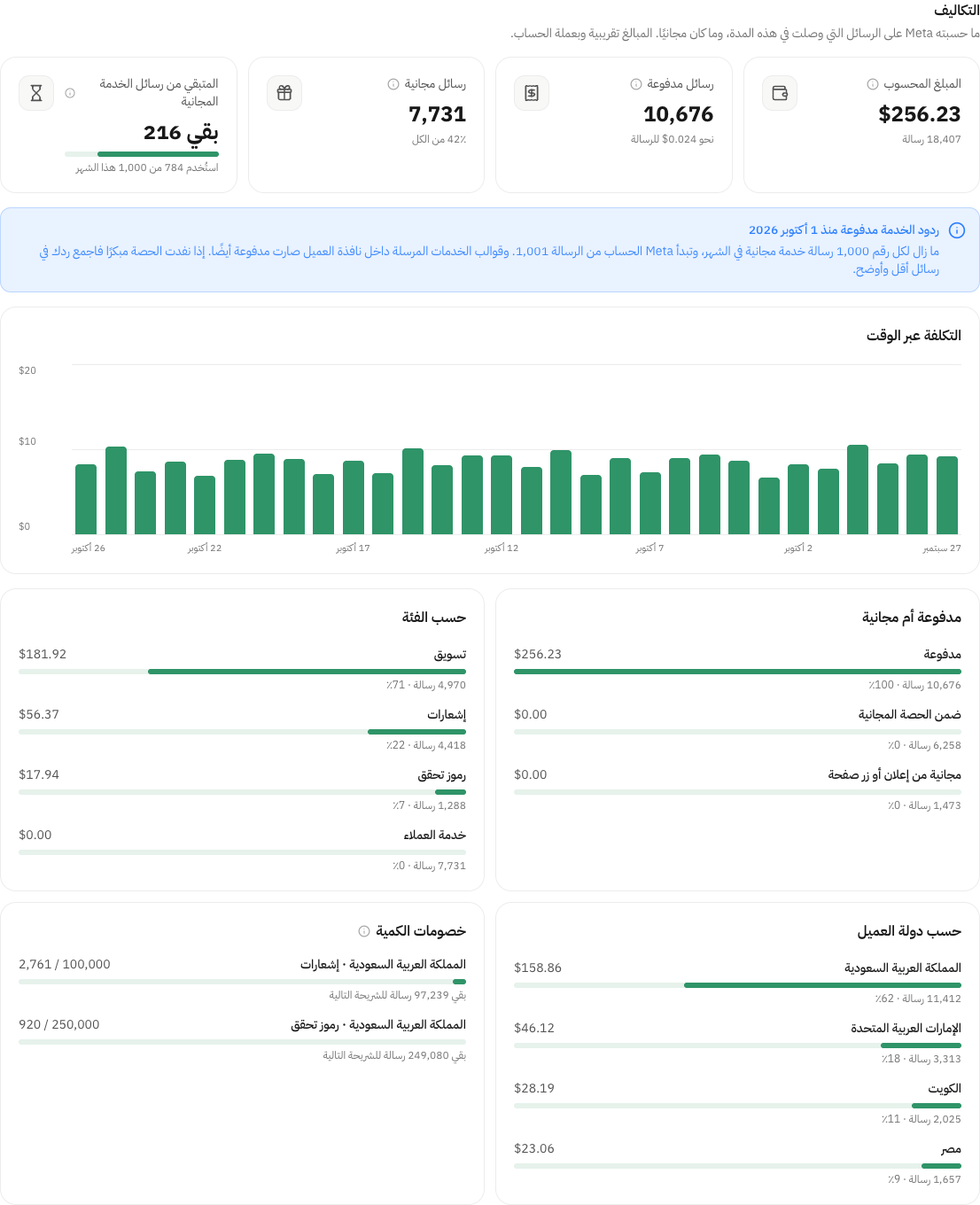
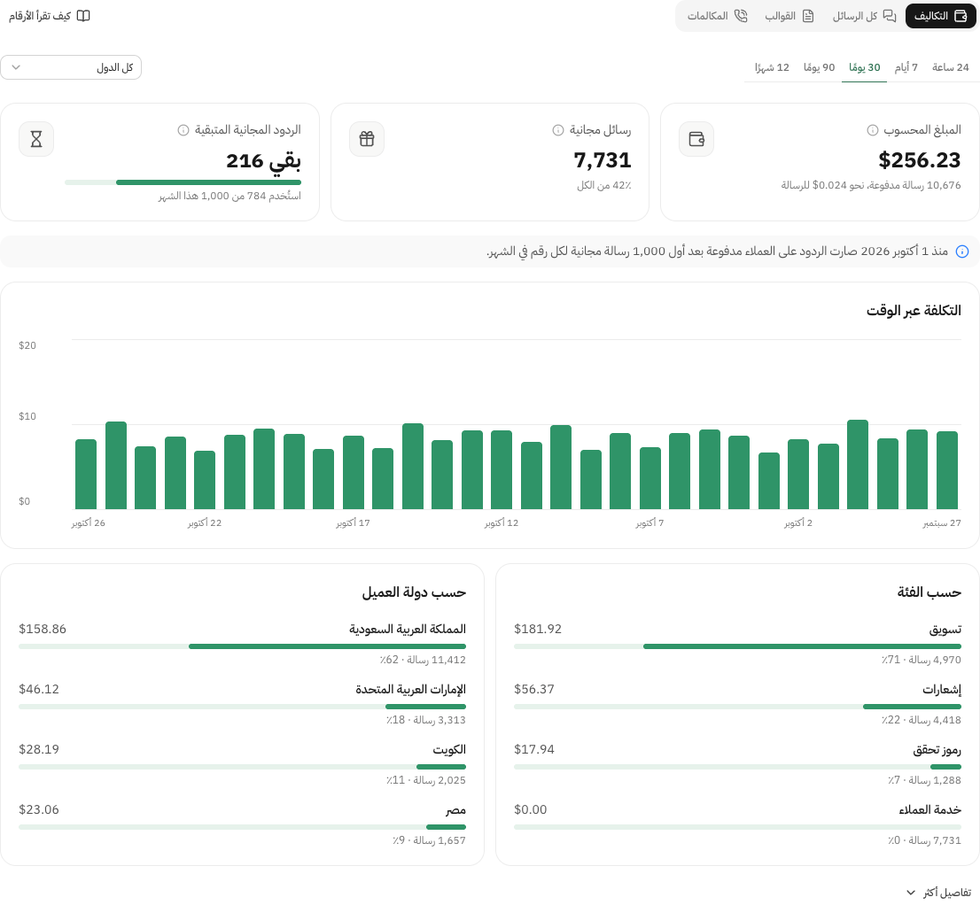
feat(analytics): simplify the reports page into short tabs
Splits Reports into Costs, All messages, Templates and Calls tabs, picks
the time bucket from the range instead of asking, keeps three cost tiles,
category and country up front, and moves paid-or-free, per-number and
volume discounts behind "More details". Shortens the copy in both
languages.

diff --git a/app/components/ReportsPanel.vue b/app/components/ReportsPanel.vue
@@ -2,28 +2,16 @@
 const { api, accountId, current } = useManager()
 
 const days = ref<number>(30)
-const granularity = ref<ReportGranularity>('DAILY')
 const phone = ref<string>('')
 const country = ref<string>('')
 
 const periods = computed(() => REPORT_PERIODS.map(value => ({ label: tOr(`reports.period.${value}`, String(value)), value })))
-const granularities = computed(() => REPORT_GRANULARITIES
-  .filter(value => value !== 'HALF_HOUR' || days.value <= HALF_HOUR_MAX_DAYS)
-  .map(value => ({ label: tOr(`reports.granularity.${value}`, value), value })))
+// The bucket follows the range, so there is one choice less to make: half hours for a day, months for a year.
+const granularity = computed<ReportGranularity>(() => (days.value === 1 ? 'HALF_HOUR' : days.value === 365 ? 'MONTHLY' : 'DAILY'))
 
-// A year by day is 365 thin bars; by month it reads at a glance. Half hours only make sense for a short range.
-watch(days, (value) => {
-  if (value > HALF_HOUR_MAX_DAYS && granularity.value === 'HALF_HOUR') {
-    granularity.value = 'DAILY'
-  }
-
-  if (value === 365) {
-    granularity.value = 'MONTHLY'
-  }
-  else if (value <= 30 && granularity.value === 'MONTHLY') {
-    granularity.value = value === 1 ? 'HALF_HOUR' : 'DAILY'
-  }
-})
+// One part at a time keeps the page short; extra cost breakdowns wait behind "More details".
+const section = ref<'costs' | 'messages' | 'templates' | 'calls'>('costs')
+const more = ref(false)
 
 const ALL = '*'
 const phoneItems = computed(() => [
@@ -105,15 +93,32 @@ const trafficPoints = computed(() => (traffic.value?.series ?? []).map(point => 
 const callPoints = computed(() => (calls.value?.series ?? []).map(point => ({ key: point.key, values: [point.count] })))
 const hasCalls = computed(() => Boolean(calls.value?.count))
 
+const sections = computed(() => [
+  { label: t('reports.costs.title'), value: 'costs', icon: 'i-lucide-wallet' },
+  { label: t('reports.traffic.title'), value: 'messages', icon: 'i-lucide-messages-square' },
+  { label: t('reports.templatesTab'), value: 'templates', icon: 'i-lucide-file-text' },
+  ...(hasCalls.value ? [{ label: t('reports.calls.title'), value: 'calls', icon: 'i-lucide-phone-call' }] : []),
+])
+
+watch(hasCalls, (value) => {
+  if (!value && section.value === 'calls') {
+    section.value = 'costs'
+  }
+})
+
 const tierProgress = (tier: CostReport['tiers'][number]) => (tier.upper ? Math.min(100, Math.round((tier.volume / tier.upper) * 100)) : 0)
 </script>
 
 <template>
   <div class="space-y-6">
     <div class="flex flex-wrap items-center justify-between gap-3">
-      <UTabs v-model="days" :items="periods" :content="false" size="sm" />
-      <div class="flex flex-wrap items-center gap-2">
-        <USelect v-model="granularity" :items="granularities" size="sm" class="w-32" :aria-label="t('reports.granularityLabel')" />
+      <UTabs v-model="section" :items="sections" :content="false" color="neutral" size="sm" />
+      <UButton :to="docsUrl('reports-and-costs')" target="_blank" icon="i-lucide-book-open" color="neutral" variant="ghost" size="sm" :label="t('reports.guide')" />
+    </div>
+
+    <div v-if="section !== 'templates'" class="flex flex-wrap items-center gap-2">
+      <UTabs v-model="days" :items="periods" :content="false" size="xs" variant="link" />
+      <div class="flex flex-wrap items-center gap-2 sm:ms-auto">
         <USelect
           v-if="phoneItems.length > 2"
           :model-value="phone || ALL"
@@ -132,39 +137,21 @@ const tierProgress = (tier: CostReport['tiers'][number]) => (tier.upper ? Math.m
           :aria-label="t('reports.country')"
           @update:model-value="(value) => (country = value === ALL ? '' : String(value))"
         />
-        <UButton :to="docsUrl('reports-and-costs')" target="_blank" icon="i-lucide-book-open" color="neutral" variant="ghost" size="sm" :label="t('reports.guide')" />
       </div>
     </div>
 
-    <!-- Costs -->
-    <section class="space-y-4">
-      <div>
-        <h2 class="font-semibold text-highlighted">
-          {{ t('reports.costs.title') }}
-        </h2>
-        <p class="mt-1 text-sm text-muted">
-          {{ t('reports.costs.intro') }}
-        </p>
-      </div>
+    <section v-if="section === 'costs'" class="space-y-4">
 
       <UAlert v-if="errors.costs" color="error" variant="subtle" icon="i-lucide-circle-alert" :title="t('reports.costs.failed')" :description="errors.costs" />
 
       <template v-else>
-        <div class="grid gap-3 sm:grid-cols-2 xl:grid-cols-4">
+        <div class="grid gap-3 md:grid-cols-3">
           <StatTile :title="t('reports.costs.total')" icon="i-lucide-wallet" :hint="t('reports.costs.totalHint')" :loading="loading && !costs">
             <p class="text-2xl font-bold text-highlighted tabular-nums">
               <bdi dir="ltr">{{ money(costs?.total, currency) }}</bdi>
             </p>
             <p class="mt-1 text-xs text-muted">
-              {{ t('chart.messageCount', { n: count(costs?.messages) }) }}
-            </p>
-          </StatTile>
-          <StatTile :title="t('reports.costs.paid')" icon="i-lucide-receipt" :hint="t('reports.costs.paidHint')" :loading="loading && !costs">
-            <p class="text-2xl font-bold text-highlighted tabular-nums">
-              <bdi dir="ltr">{{ count(paidMessages) }}</bdi>
-            </p>
-            <p class="mt-1 text-xs text-muted">
-              {{ t('reports.costs.perMessage', { amount: ltr(money(paidMessages ? (costs?.total ?? 0) / paidMessages : 0, currency, 4)) }) }}
+              {{ t('reports.costs.paidCount', { n: count(paidMessages), amount: ltr(money(paidMessages ? (costs?.total ?? 0) / paidMessages : 0, currency, 3)) }) }}
             </p>
           </StatTile>
           <StatTile :title="t('reports.costs.free')" icon="i-lucide-gift" :hint="t('reports.costs.freeHint')" :loading="loading && !costs">
@@ -192,15 +179,30 @@ const tierProgress = (tier: CostReport['tiers'][number]) => (tier.upper ? Math.m
           </StatTile>
         </div>
 
-        <UAlert color="info" variant="subtle" icon="i-lucide-info" :title="t('reports.costs.octoberTitle')" :description="t('reports.costs.october')" />
+        <p class="flex items-start gap-2 rounded-lg bg-elevated/60 px-3 py-2 text-sm text-toned">
+          <UIcon name="i-lucide-info" class="mt-0.5 size-4 shrink-0 text-info" />
+          {{ t('reports.costs.october') }}
+        </p>
 
         <ReportBars :title="t('reports.costs.overTime')" :points="costPoints" :series="[{ name: t('chart.cost'), color: 'var(--chart-bar)' }]" :format="(value) => compactMoney(value, currency)" />
 
-        <!-- A lone last card takes the full row, so the grid never leaves a hole. -->
-        <div class="grid gap-3 lg:grid-cols-2 lg:[&>*:last-child:nth-child(odd)]:col-span-2">
-          <CostShares :title="t('reports.costs.byType')" :rows="shares(costs?.by_pricing_type, key => tOr(`reports.pricingType.${key}`, humanize(key)))" :total="costs?.total ?? 0" :currency="currency" />
+        <div class="grid gap-3 lg:grid-cols-2">
           <CostShares :title="t('reports.costs.byCategory')" :rows="shares(costs?.by_category, pricingLabel)" :total="costs?.total ?? 0" :currency="currency" />
           <CostShares :title="t('reports.costs.byCountry')" :rows="shares(costs?.by_country, countryName)" :total="costs?.total ?? 0" :currency="currency" />
+        </div>
+
+        <UButton
+          :label="more ? t('reports.lessDetails') : t('reports.moreDetails')"
+          :trailing-icon="more ? 'i-lucide-chevron-up' : 'i-lucide-chevron-down'"
+          color="neutral"
+          variant="ghost"
+          size="sm"
+          @click="more = !more"
+        />
+
+        <!-- A lone last card takes the full row, so the grid never leaves a hole. -->
+        <div v-if="more" class="grid gap-3 lg:grid-cols-2 lg:[&>*:last-child:nth-child(odd)]:col-span-2">
+          <CostShares :title="t('reports.costs.byType')" :rows="shares(costs?.by_pricing_type, key => tOr(`reports.pricingType.${key}`, humanize(key)))" :total="costs?.total ?? 0" :currency="currency" />
           <CostShares v-if="(costs?.by_phone.length ?? 0) > 1" :title="t('reports.costs.byPhone')" :rows="shares(costs?.by_phone, phoneLabel)" :total="costs?.total ?? 0" :currency="currency" />
           <div v-if="costs?.tiers.length" class="rounded-xl border border-default bg-default p-5">
             <h3 class="flex items-center gap-1.5 font-semibold text-highlighted">
@@ -228,16 +230,7 @@ const tierProgress = (tier: CostReport['tiers'][number]) => (tier.upper ? Math.m
       </template>
     </section>
 
-    <!-- All messages -->
-    <section class="space-y-4">
-      <div>
-        <h2 class="font-semibold text-highlighted">
-          {{ t('reports.traffic.title') }}
-        </h2>
-        <p class="mt-1 text-sm text-muted">
-          {{ t('reports.traffic.intro') }}
-        </p>
-      </div>
+    <section v-if="section === 'messages'" class="space-y-4">
 
       <UAlert v-if="errors.traffic" color="error" variant="subtle" icon="i-lucide-circle-alert" :title="t('reports.traffic.failed')" :description="errors.traffic" />
 
@@ -264,10 +257,10 @@ const tierProgress = (tier: CostReport['tiers'][number]) => (tier.upper ? Math.m
       </template>
     </section>
 
-    <ReportCompare />
+    <ReportCompare v-if="section === 'templates'" />
 
     <!-- Template groups: only when the account has some. -->
-    <section v-if="groups?.groups.length" class="space-y-4 rounded-xl border border-default bg-default p-5">
+    <section v-if="section === 'templates' && groups?.groups.length" class="space-y-4 rounded-xl border border-default bg-default p-5">
       <div>
         <h2 class="font-semibold text-highlighted">
           {{ t('reports.groups.title') }}
@@ -329,15 +322,7 @@ const tierProgress = (tier: CostReport['tiers'][number]) => (tier.upper ? Math.m
     </section>
 
     <!-- Calls: only when the account had any in the range. -->
-    <section v-if="hasCalls" class="space-y-4">
-      <div>
-        <h2 class="font-semibold text-highlighted">
-          {{ t('reports.calls.title') }}
-        </h2>
-        <p class="mt-1 text-sm text-muted">
-          {{ t('reports.calls.intro') }}
-        </p>
-      </div>
+    <section v-if="section === 'calls' && hasCalls" class="space-y-4">
       <div class="grid gap-3 sm:grid-cols-3">
         <StatTile :title="t('reports.calls.count')" icon="i-lucide-phone-call">
           <p class="text-2xl font-bold text-highlighted tabular-nums">

diff --git a/site/app/utils/docs.ts b/site/app/utils/docs.ts
@@ -346,7 +346,7 @@ const reportsEn: typeof en = {
   description: 'See what WhatsApp messages cost by country, number and paid or free, all messages sent and received, the 1,000 free service messages per number, volume tiers, template block rates, template groups and calls.',
   keywords: 'WhatsApp pricing analytics, WhatsApp cost by country, WhatsApp free service messages 1000, WhatsApp service message charge October 2026, WhatsApp volume tier, WhatsApp template block rate, template comparison, WhatsApp call analytics, template group analytics',
   heading: 'Reports and costs',
-  intro: 'Open an account and choose "Reports". The page reads Meta\'s analytics for the last 24 hours, 7, 30 or 90 days, or 12 months, and says in plain words what each number means. It only reads; nothing is sent or changed.',
+  intro: 'Open an account and choose "Reports". The page reads Meta\'s analytics for the last 24 hours, 7, 30 or 90 days, or 12 months, and says in plain words what each number means. It has four short tabs: costs, all messages, templates and calls (only when the account has calls). It only reads; nothing is sent or changed.',
   onThisPage: 'On this page',
   back: 'Back to the home page',
   limitsTitle: 'Meta\'s limits at a glance',
@@ -361,7 +361,7 @@ const reportsEn: typeof en = {
     {
       id: 'costs',
       title: 'Costs',
-      text: 'The amount Meta charged for messages delivered in the range, how many were paid and how many free, and the cost over time by half hour, day or month. Below it, the same money by paid or free, by category, by the customer\'s country and, with several numbers, by number.',
+      text: 'The amount Meta charged for messages delivered in the range, how many were paid and how many free, and the cost over time (by half hour for 24 hours, by month for 12 months, by day otherwise). Below it, the cost by category and by customer country; "More details" adds paid or free, each number and volume discounts.',
       points: [
         '"Paid" covers marketing and authentication templates, utility templates, and service replies after the free tier.',
         '"Free from an ad or page button" is a 72-hour window that starts when a customer messages you from an ad or a page button.',
@@ -415,7 +415,7 @@ const reportsAr: typeof ar = {
   description: 'اعرف تكلفة رسائل واتساب حسب الدولة والرقم والمدفوع والمجاني، وكل الرسائل المرسلة والواردة، والـ 1,000 رسالة خدمة المجانية لكل رقم، وشرائح الكمية، ونسبة حظر القوالب، ومجموعات القوالب والمكالمات.',
   keywords: 'تكلفة رسائل واتساب, تحليلات أسعار واتساب, رسائل الخدمة المجانية 1000, احتساب رسائل الخدمة أكتوبر 2026, شرائح الكمية واتساب, نسبة حظر القالب, مقارنة القوالب, تحليلات مكالمات واتساب',
   heading: 'التقارير والتكاليف',
-  intro: 'افتح حسابًا واختر «التقارير». تقرأ الصفحة تحليلات Meta لآخر 24 ساعة أو 7 أو 30 أو 90 يومًا أو 12 شهرًا، وتشرح بكلمات بسيطة ماذا يعني كل رقم. الصفحة تقرأ فقط؛ لا ترسل شيئًا ولا تغيّر شيئًا.',
+  intro: 'افتح حسابًا واختر «التقارير». تقرأ الصفحة تحليلات Meta لآخر 24 ساعة أو 7 أو 30 أو 90 يومًا أو 12 شهرًا، وتشرح بكلمات بسيطة ماذا يعني كل رقم. فيها أربعة تبويبات قصيرة: التكاليف، وكل الرسائل، والقوالب، والمكالمات (إن وُجدت). الصفحة تقرأ فقط؛ لا ترسل شيئًا ولا تغيّر شيئًا.',
   onThisPage: 'في هذه الصفحة',
   back: 'العودة إلى الصفحة الرئيسية',
   limitsTitle: 'حدود Meta باختصار',
@@ -430,7 +430,7 @@ const reportsAr: typeof ar = {
     {
       id: 'costs',
       title: 'التكاليف',
-      text: 'المبلغ الذي حسبته Meta على الرسائل التي وصلت في المدة، وكم منها مدفوع وكم مجاني، والتكلفة عبر الوقت بنصف الساعة أو اليوم أو الشهر. وتحتها المبلغ نفسه مقسّمًا: مدفوع أم مجاني، والفئة، ودولة العميل، والرقم إذا كان للحساب أكثر من رقم.',
+      text: 'المبلغ الذي حسبته Meta على الرسائل التي وصلت في المدة، وكم منها مدفوع وكم مجاني، والتكلفة عبر الوقت (بنصف الساعة لمدة 24 ساعة، وبالشهر لمدة 12 شهرًا، وباليوم فيما عدا ذلك). وتحتها التكلفة حسب الفئة ودولة العميل، وزر «تفاصيل أكثر» يضيف المدفوع والمجاني وكل رقم وخصومات الكمية.',
       points: [
         '«مدفوعة» تشمل قوالب التسويق والتحقق، وقوالب الخدمات، وردود الخدمة بعد انتهاء الحصة المجانية.',
         '«مجانية من إعلان أو زر صفحة» نافذة مدتها 72 ساعة تبدأ عندما يراسلك العميل من إعلان أو زر صفحة.',

diff --git a/shared/locales/ar.ts b/shared/locales/ar.ts
@@ -824,14 +824,15 @@ export default {
   },
   reports: {
     tab: 'التقارير',
+    templatesTab: 'القوالب',
+    moreDetails: 'تفاصيل أكثر',
+    lessDetails: 'تفاصيل أقل',
     guide: 'كيف تقرأ الأرقام',
     allNumbers: 'كل الأرقام',
     allCountries: 'كل الدول',
     number: 'رقم الهاتف',
     country: 'الدولة',
-    granularityLabel: 'العرض حسب',
     period: { 1: '24 ساعة', 7: '7 أيام', 30: '30 يومًا', 90: '90 يومًا', 365: '12 شهرًا' },
-    granularity: { HALF_HOUR: 'نصف ساعة', DAILY: 'اليوم', MONTHLY: 'الشهر' },
     pricingType: {
       REGULAR: 'مدفوعة',
       FREE_CUSTOMER_SERVICE: 'ضمن الحصة المجانية',
@@ -845,22 +846,18 @@ export default {
     },
     costs: {
       title: 'التكاليف',
-      intro: 'ما حسبته Meta على الرسائل التي وصلت في هذه المدة، وما كان مجانيًا. المبالغ تقريبية وبعملة الحساب.',
       failed: 'تعذّر تحميل التكاليف',
       total: 'المبلغ المحسوب',
+      paidCount: '{n} رسالة مدفوعة، نحو {amount} للرسالة',
       totalHint: 'تقدير Meta للرسائل التي وصلت. الفاتورة هي المرجع النهائي.',
-      paid: 'رسائل مدفوعة',
-      paidHint: 'رسائل حسبتها Meta: قوالب التسويق والتحقق، وقوالب الخدمات، وردود الخدمة بعد انتهاء الحصة المجانية.',
-      perMessage: 'نحو {amount} للرسالة',
       free: 'رسائل مجانية',
       freeHint: 'رسائل داخل نافذة مجانية مدتها 72 ساعة بدأت من إعلان أو زر صفحة، وردود الخدمة ضمن الحصة الشهرية المجانية.',
       ofAll: 'من الكل',
-      freeTier: 'المتبقي من رسائل الخدمة المجانية',
+      freeTier: 'الردود المجانية المتبقية',
       freeTierHint: 'لكل رقم 1,000 رسالة خدمة مجانية في الشهر. تتجدد أول كل شهر ولا يُرحَّل الباقي.',
       freeLeft: 'بقي {n}',
       freeUsed: 'استُخدم {n} من 1,000 هذا الشهر',
-      octoberTitle: 'ردود الخدمة مدفوعة منذ 1 أكتوبر 2026',
-      october: 'ما زال لكل رقم 1,000 رسالة خدمة مجانية في الشهر، وتبدأ Meta الحساب من الرسالة 1,001. وقوالب الخدمات المرسلة داخل نافذة العميل صارت مدفوعة أيضًا. إذا نفدت الحصة مبكرًا فاجمع ردك في رسائل أقل وأوضح.',
+      october: 'منذ 1 أكتوبر 2026 صارت الردود على العملاء مدفوعة بعد أول 1,000 رسالة مجانية لكل رقم في الشهر.',
       overTime: 'التكلفة عبر الوقت',
       byType: 'مدفوعة أم مجانية',
       byCategory: 'حسب الفئة',
@@ -874,7 +871,6 @@ export default {
     },
     traffic: {
       title: 'كل الرسائل',
-      intro: 'كل الرسائل وليس القوالب فقط: ما أرسلته وما أرسله إليك العملاء.',
       failed: 'تعذّر تحميل الرسائل',
       delivered: 'وصل {rate}',
       received: 'من العملاء',
@@ -882,7 +878,7 @@ export default {
     },
     compare: {
       title: 'قارن بين قالبين',
-      intro: 'تخبرك Meta أي القالبين يحظره العملاء أقل، وكم مرة أُرسل كل منهما، وأكثر سبب للحظر.',
+      intro: 'أي القالبين يحظره العملاء أقل، ولماذا يحظرونه.',
       window: '{n} يومًا',
       first: 'القالب الأول',
       second: 'القالب الثاني',
@@ -894,7 +890,7 @@ export default {
       higher: 'حظر أكثر',
       sends: 'أُرسل',
       reason: 'أكثر سبب للحظر',
-      advice: 'الحظر يخفض تقييم الجودة. تعلّم من القالب الأقل حظرًا: أرسله لمن طلبه، واجعل فائدته واضحة من السطر الأول.',
+      advice: 'الحظر يخفض تقييم الجودة. استفد مما نجح في القالب الأقل حظرًا.',
     },
     blockReason: {
       NO_LONGER_NEEDED: 'لم يعد يحتاجها',
@@ -920,7 +916,6 @@ export default {
     },
     calls: {
       title: 'المكالمات',
-      intro: 'مكالمات واتساب على أرقامك.',
       count: 'المكالمات',
       cost: 'التكلفة',
       costHint: 'المكالمات التي يبدؤها العميل مجانية؛ تحسب Meta المكالمات التي يبدؤها نشاطك.',

diff --git a/shared/locales/en.ts b/shared/locales/en.ts
@@ -824,14 +824,15 @@ const en: Dictionary = {
   },
   reports: {
     tab: 'Reports',
+    templatesTab: 'Templates',
+    moreDetails: 'More details',
+    lessDetails: 'Fewer details',
     guide: 'How to read this',
     allNumbers: 'All numbers',
     allCountries: 'All countries',
     number: 'Phone number',
     country: 'Country',
-    granularityLabel: 'Show by',
     period: { 1: '24 hours', 7: '7 days', 30: '30 days', 90: '90 days', 365: '12 months' },
-    granularity: { HALF_HOUR: 'Half hour', DAILY: 'Day', MONTHLY: 'Month' },
     pricingType: {
       REGULAR: 'Paid',
       FREE_CUSTOMER_SERVICE: 'Free service tier',
@@ -845,22 +846,18 @@ const en: Dictionary = {
     },
     costs: {
       title: 'Costs',
-      intro: 'What Meta charged for messages delivered in this range, and what was free. Amounts are approximate and in the account\'s currency.',
       failed: 'Couldn\'t load the costs',
       total: 'Charged',
+      paidCount: '{n} paid messages, about {amount} each',
       totalHint: 'Meta\'s estimate for delivered messages. Your invoice is the final word.',
-      paid: 'Paid messages',
-      paidHint: 'Messages Meta charged for: marketing and authentication templates, utility templates, and service replies after the free tier.',
-      perMessage: 'About {amount} each',
       free: 'Free messages',
       freeHint: 'Messages in a free 72-hour window that started from an ad or page button, and service replies within the monthly free tier.',
       ofAll: 'of all',
-      freeTier: 'Free service messages left',
+      freeTier: 'Free replies left',
       freeTierHint: 'Each number gets 1,000 free service messages a month. They reset on the 1st and don\'t roll over.',
       freeLeft: '{n} left',
       freeUsed: '{n} of 1,000 used this month',
-      octoberTitle: 'Service replies are charged since 1 October 2026',
-      october: 'Each number still gets 1,000 free service messages a month; from the 1,001st Meta charges. Utility templates sent inside a customer window are charged too. If the free tier runs out early, answer with fewer, fuller messages.',
+      october: 'Since 1 October 2026 replies to customers are charged after 1,000 free per number each month.',
       overTime: 'Cost over time',
       byType: 'Paid or free',
       byCategory: 'By category',
@@ -874,7 +871,6 @@ const en: Dictionary = {
     },
     traffic: {
       title: 'All messages',
-      intro: 'Every message, not only templates: what you sent and what customers sent you.',
       failed: 'Couldn\'t load the messages',
       delivered: '{rate} delivered',
       received: 'From customers',
@@ -882,7 +878,7 @@ const en: Dictionary = {
     },
     compare: {
       title: 'Compare two templates',
-      intro: 'Meta tells you which of two templates customers block less, how often each was sent, and the main reason people blocked it.',
+      intro: 'Which of two templates customers block less, and why they block it.',
       window: '{n} days',
       first: 'First template',
       second: 'Second template',
@@ -894,7 +890,7 @@ const en: Dictionary = {
       higher: 'More blocks',
       sends: 'Sent',
       reason: 'Main block reason',
-      advice: 'Blocks lower your quality rating. Learn from the template with fewer blocks: send it to people who asked for it, and make the value clear in the first line.',
+      advice: 'Blocks lower your quality rating. Copy what works in the template with fewer blocks.',
     },
     blockReason: {
       NO_LONGER_NEEDED: 'No longer needed',
@@ -920,7 +916,6 @@ const en: Dictionary = {
     },
     calls: {
       title: 'Calls',
-      intro: 'WhatsApp calls on your numbers.',
       count: 'Calls',
       cost: 'Cost',
       costHint: 'Customer-started calls are free; Meta charges for calls your business starts.',
